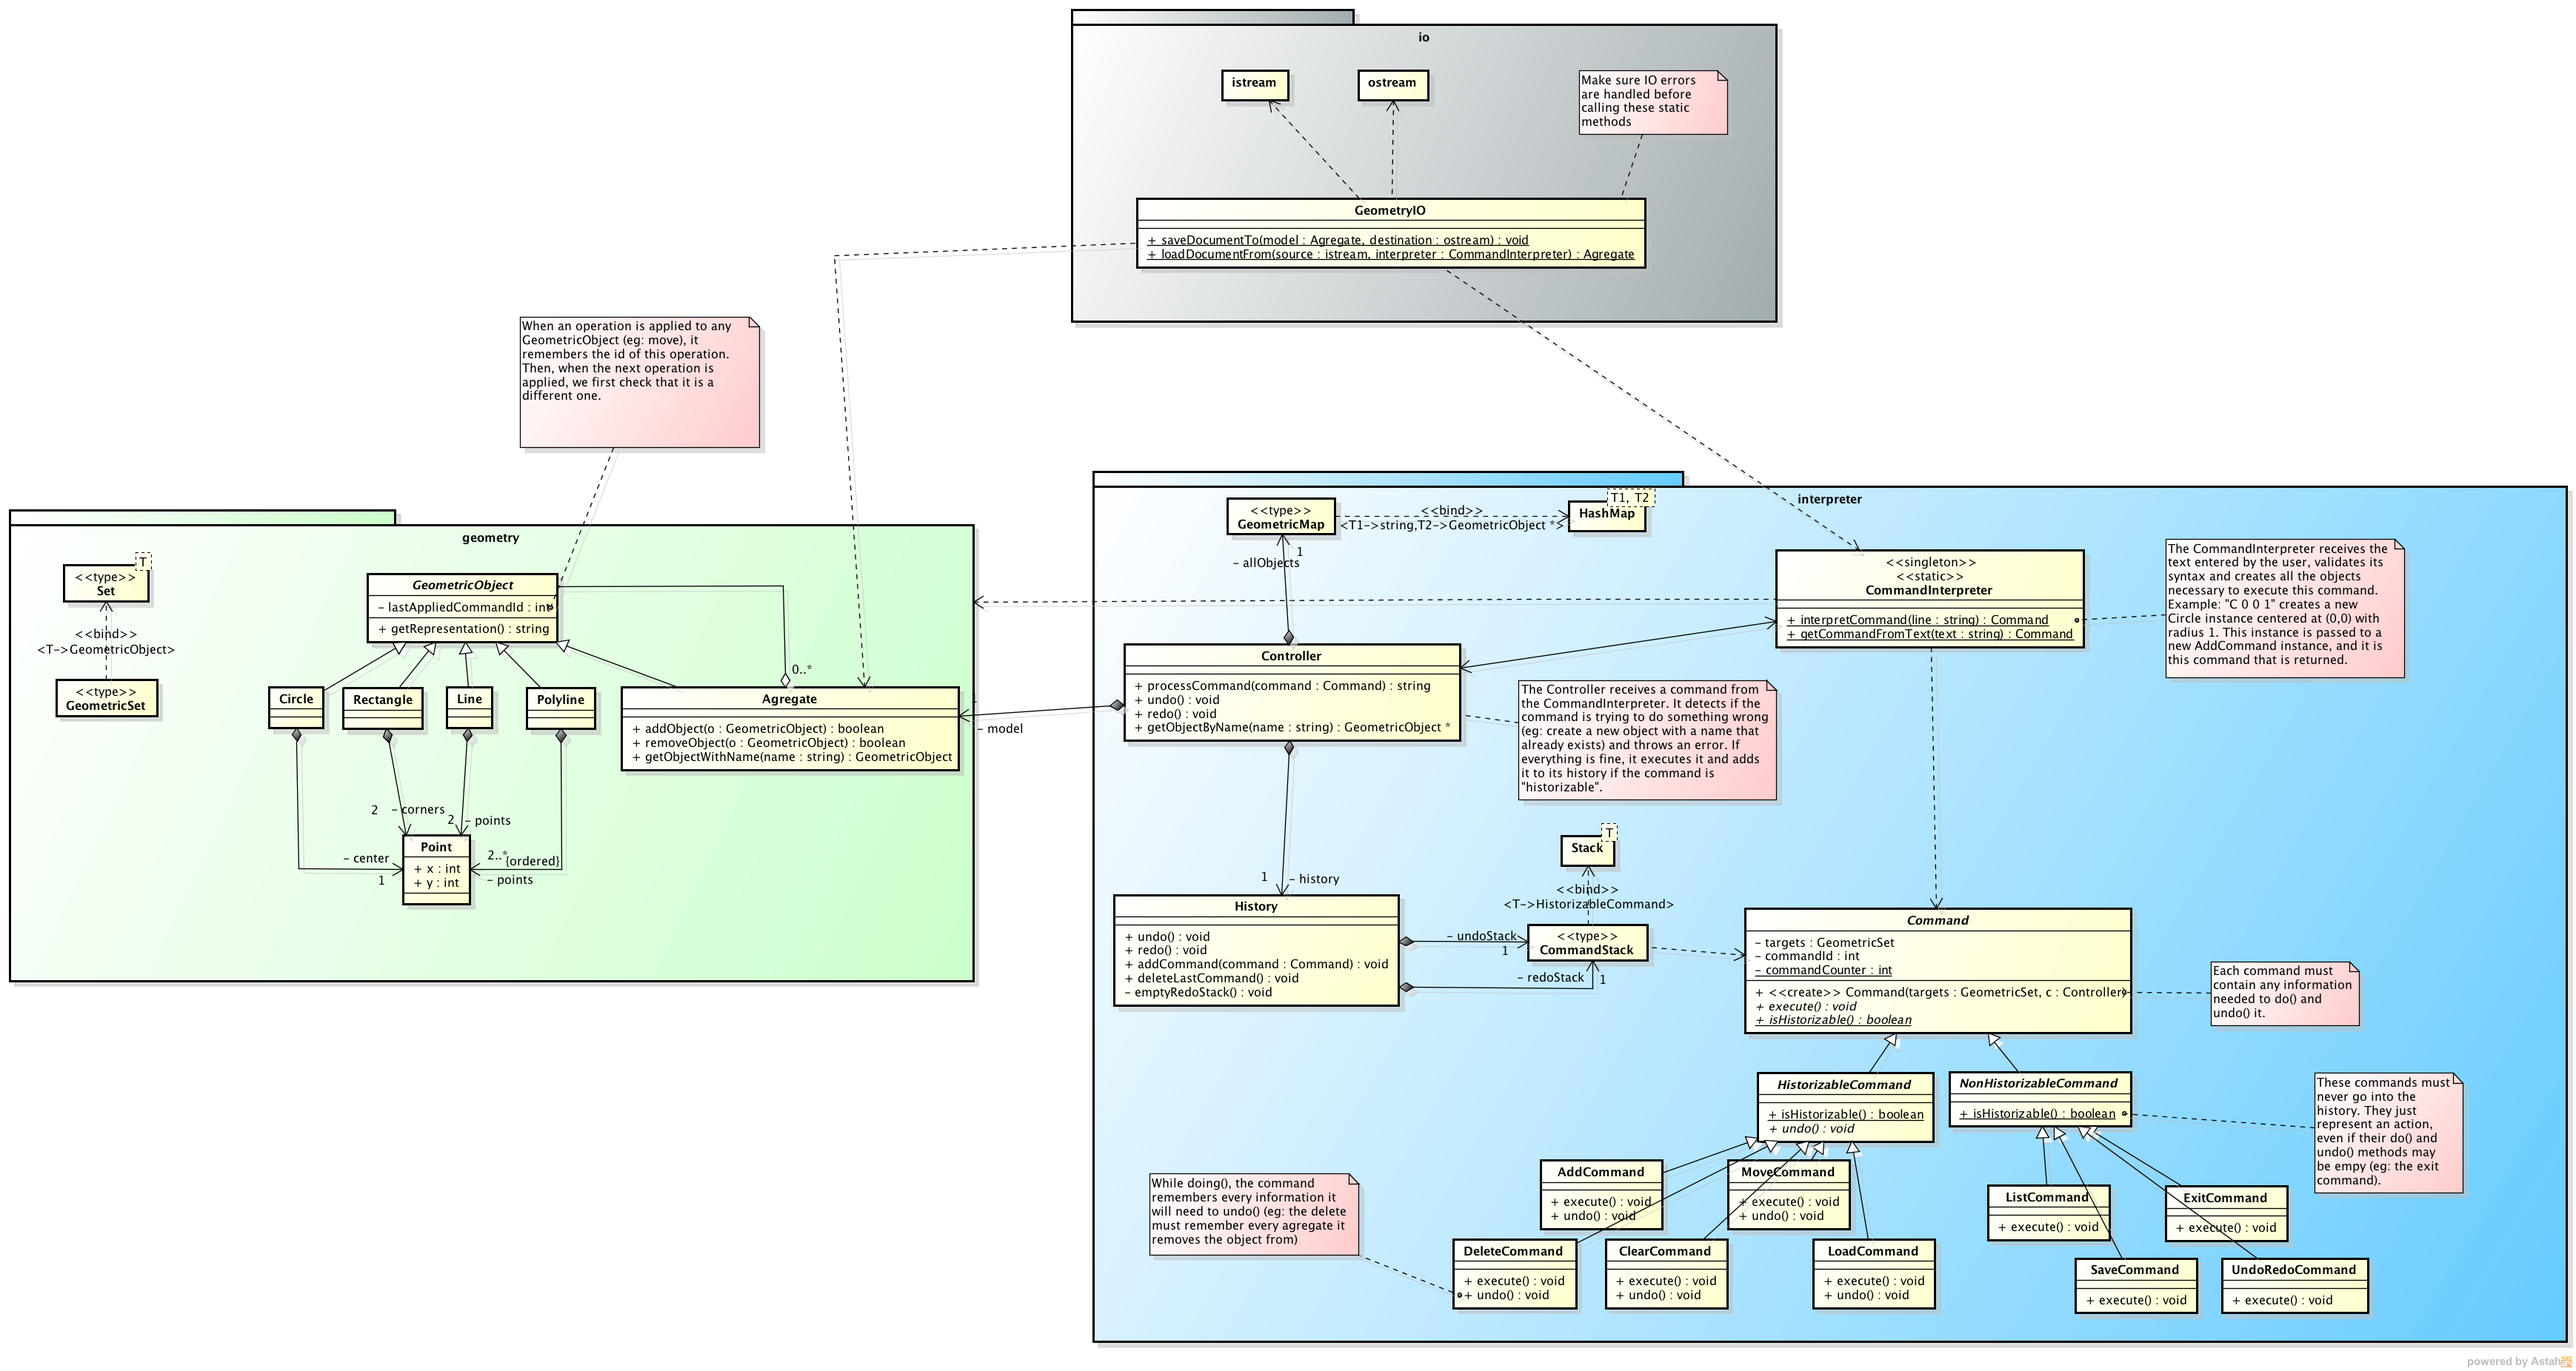
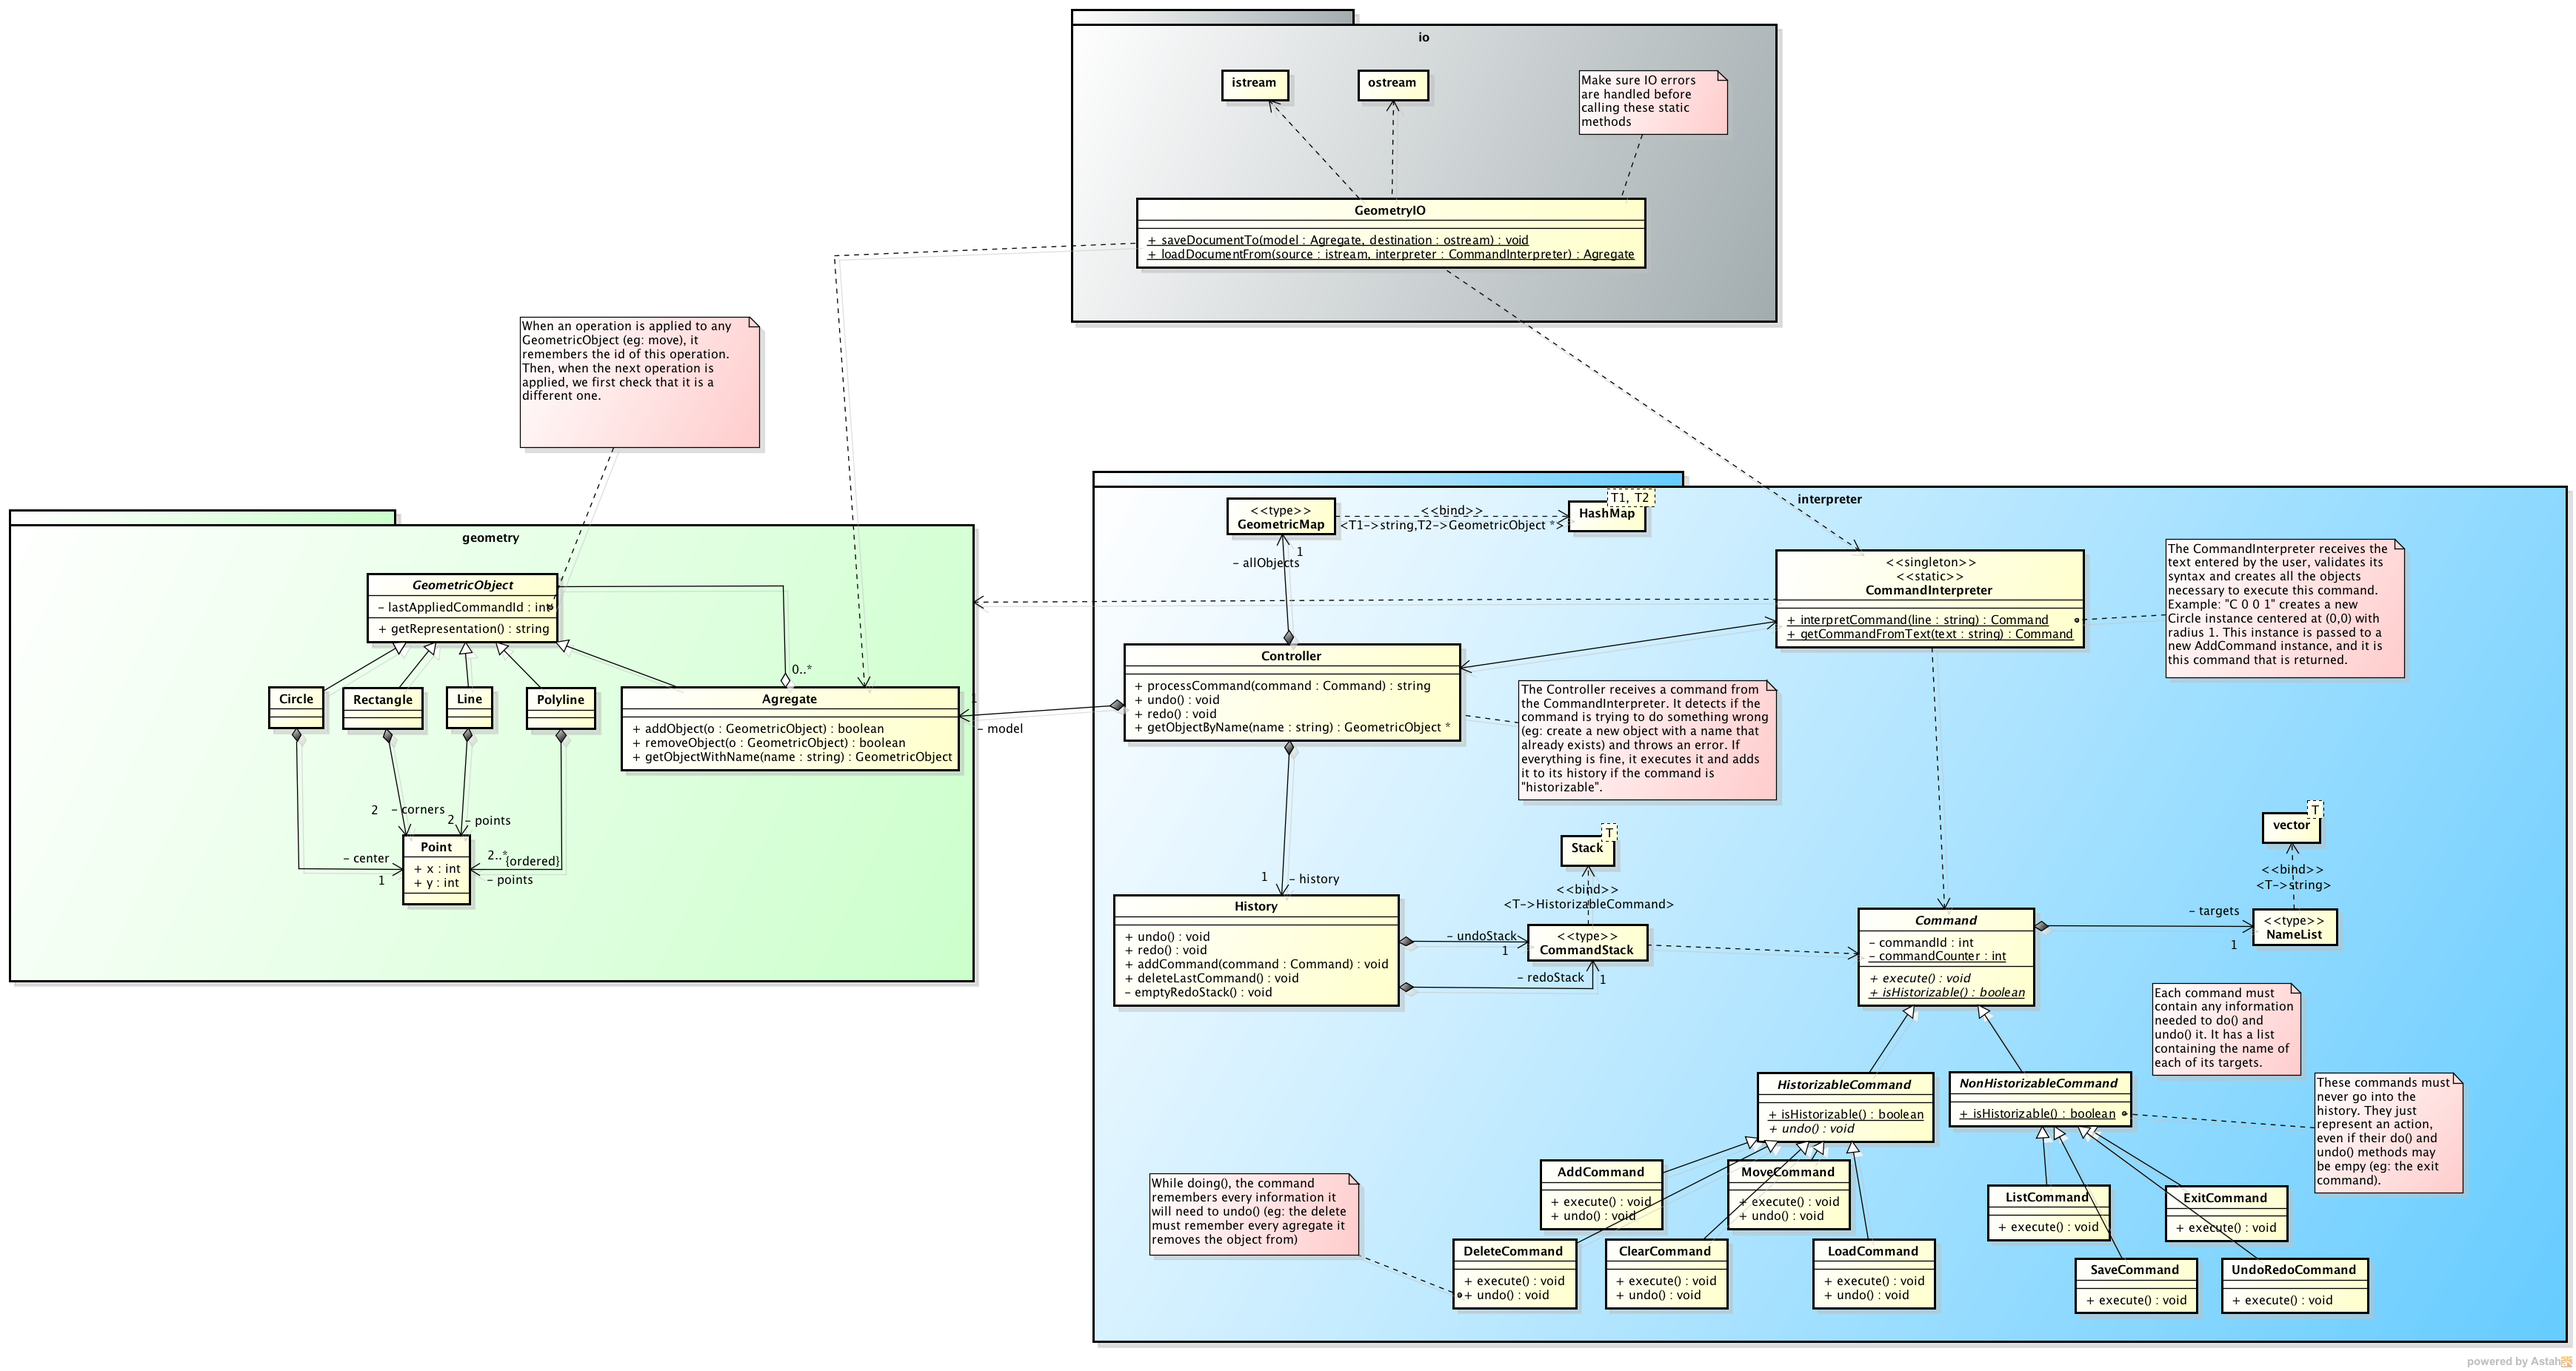
Commands : made it clearer how to access GeometricObject instances

Changed region(s): [[0.6521, 0.5848, 0.9316, 0.8002], [0.0311, 0.4001, 0.0621, 0.554]]

diff --git a/src/commands/Command.h b/src/commands/Command.h
@@ -3,6 +3,7 @@
 #define COMMAND_H_
 
 //--------------------------------------------------- Interfaces utilisées
+#include <vector>
 #include "../geometricObjects/Point.h"
 //------------------------------------------------------------- Constantes
 //------------------------------------------------------------------ Types
@@ -16,12 +17,14 @@ class Command
 	
 public:
 //----------------------------------------------------- Méthodes publiques
+	virtual bool IsHistorizable ( ) = 0;
+	
+	virtual void AddTarget ( std::string const targetName );
+	
 	virtual void Execute ( ) = 0;
 	// Mode d'emploi :
 	// Execute the command. It should gather any information needed
 	// to be able to be undone.
-	
-	virtual bool IsHistorizable ( ) = 0;
 	
 	int GetCommandId ( );
 	
@@ -39,5 +42,8 @@ protected:
 	// is instanciated
 	static int commandCounter;
 	
+	// A list of the target(s)' name
+	// To access the actual instances, use Controller::GetObjectByName
+	std::vector<std::string> targets;
 };
 #endif // COMMAND_H_

diff --git a/src/commands/Command.cpp b/src/commands/Command.cpp
@@ -1,6 +1,8 @@
 //---------- Réalisation de la classe <Command> (fichier Command.cpp) ----
 //---------------------------------------------------------------- INCLUDE
 //-------------------------------------------------------- Include système
+#include <iostream>
+using namespace std;
 //------------------------------------------------------ Include personnel
 #include "Command.h"
 //------------------------------------------------------------- Constantes
@@ -9,6 +11,11 @@ int Command::commandCounter = 0;
 
 //----------------------------------------------------------------- PUBLIC
 //----------------------------------------------------- Méthodes publiques
+
+void Command::AddTarget( string const targetName )
+{
+	targets.push_back( targetName );
+}
 
 int Command::GetCommandId ( )
 {

diff --git a/src/Controller.h b/src/Controller.h
@@ -40,6 +40,11 @@ public:
 	// Use this method to indicate that the application should exit
 	
 	GeometricObject * GetObjectByName ( std::string name );
+	// Mode d'emploi :
+	// This method should be the only access point to actual
+	// GeometricObject instances. Agregate and Command objects only
+	// have their targets' names. They must use this method to access
+	// the corresponding instances.
 	// Contrat :
 	// Returns NULL if the object is not found
 	
